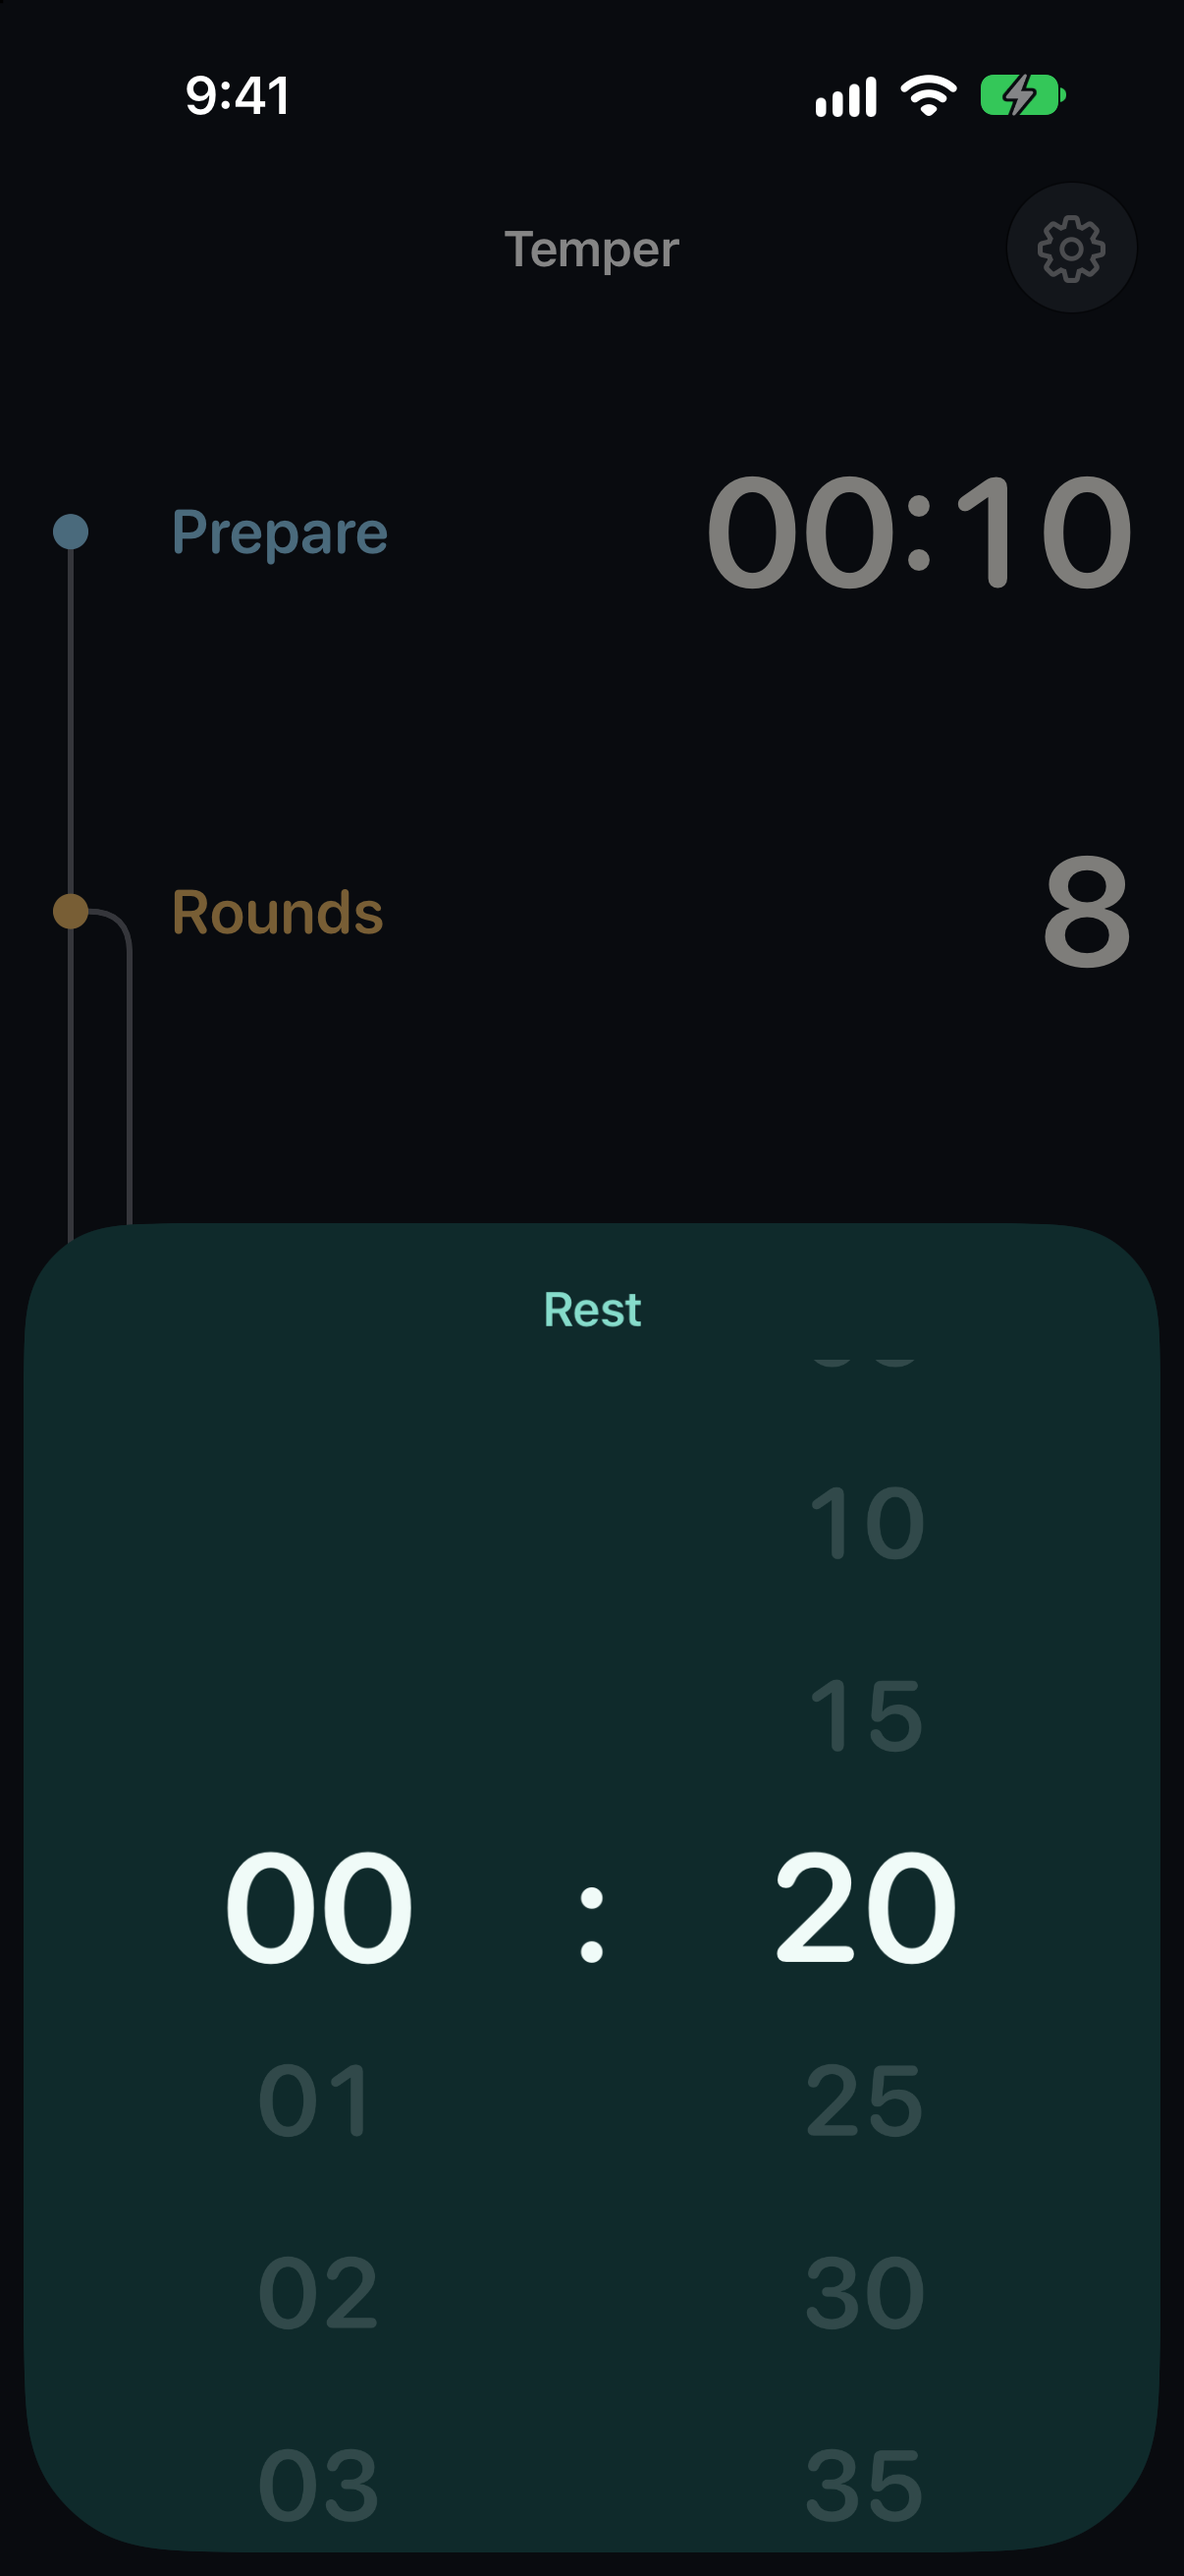
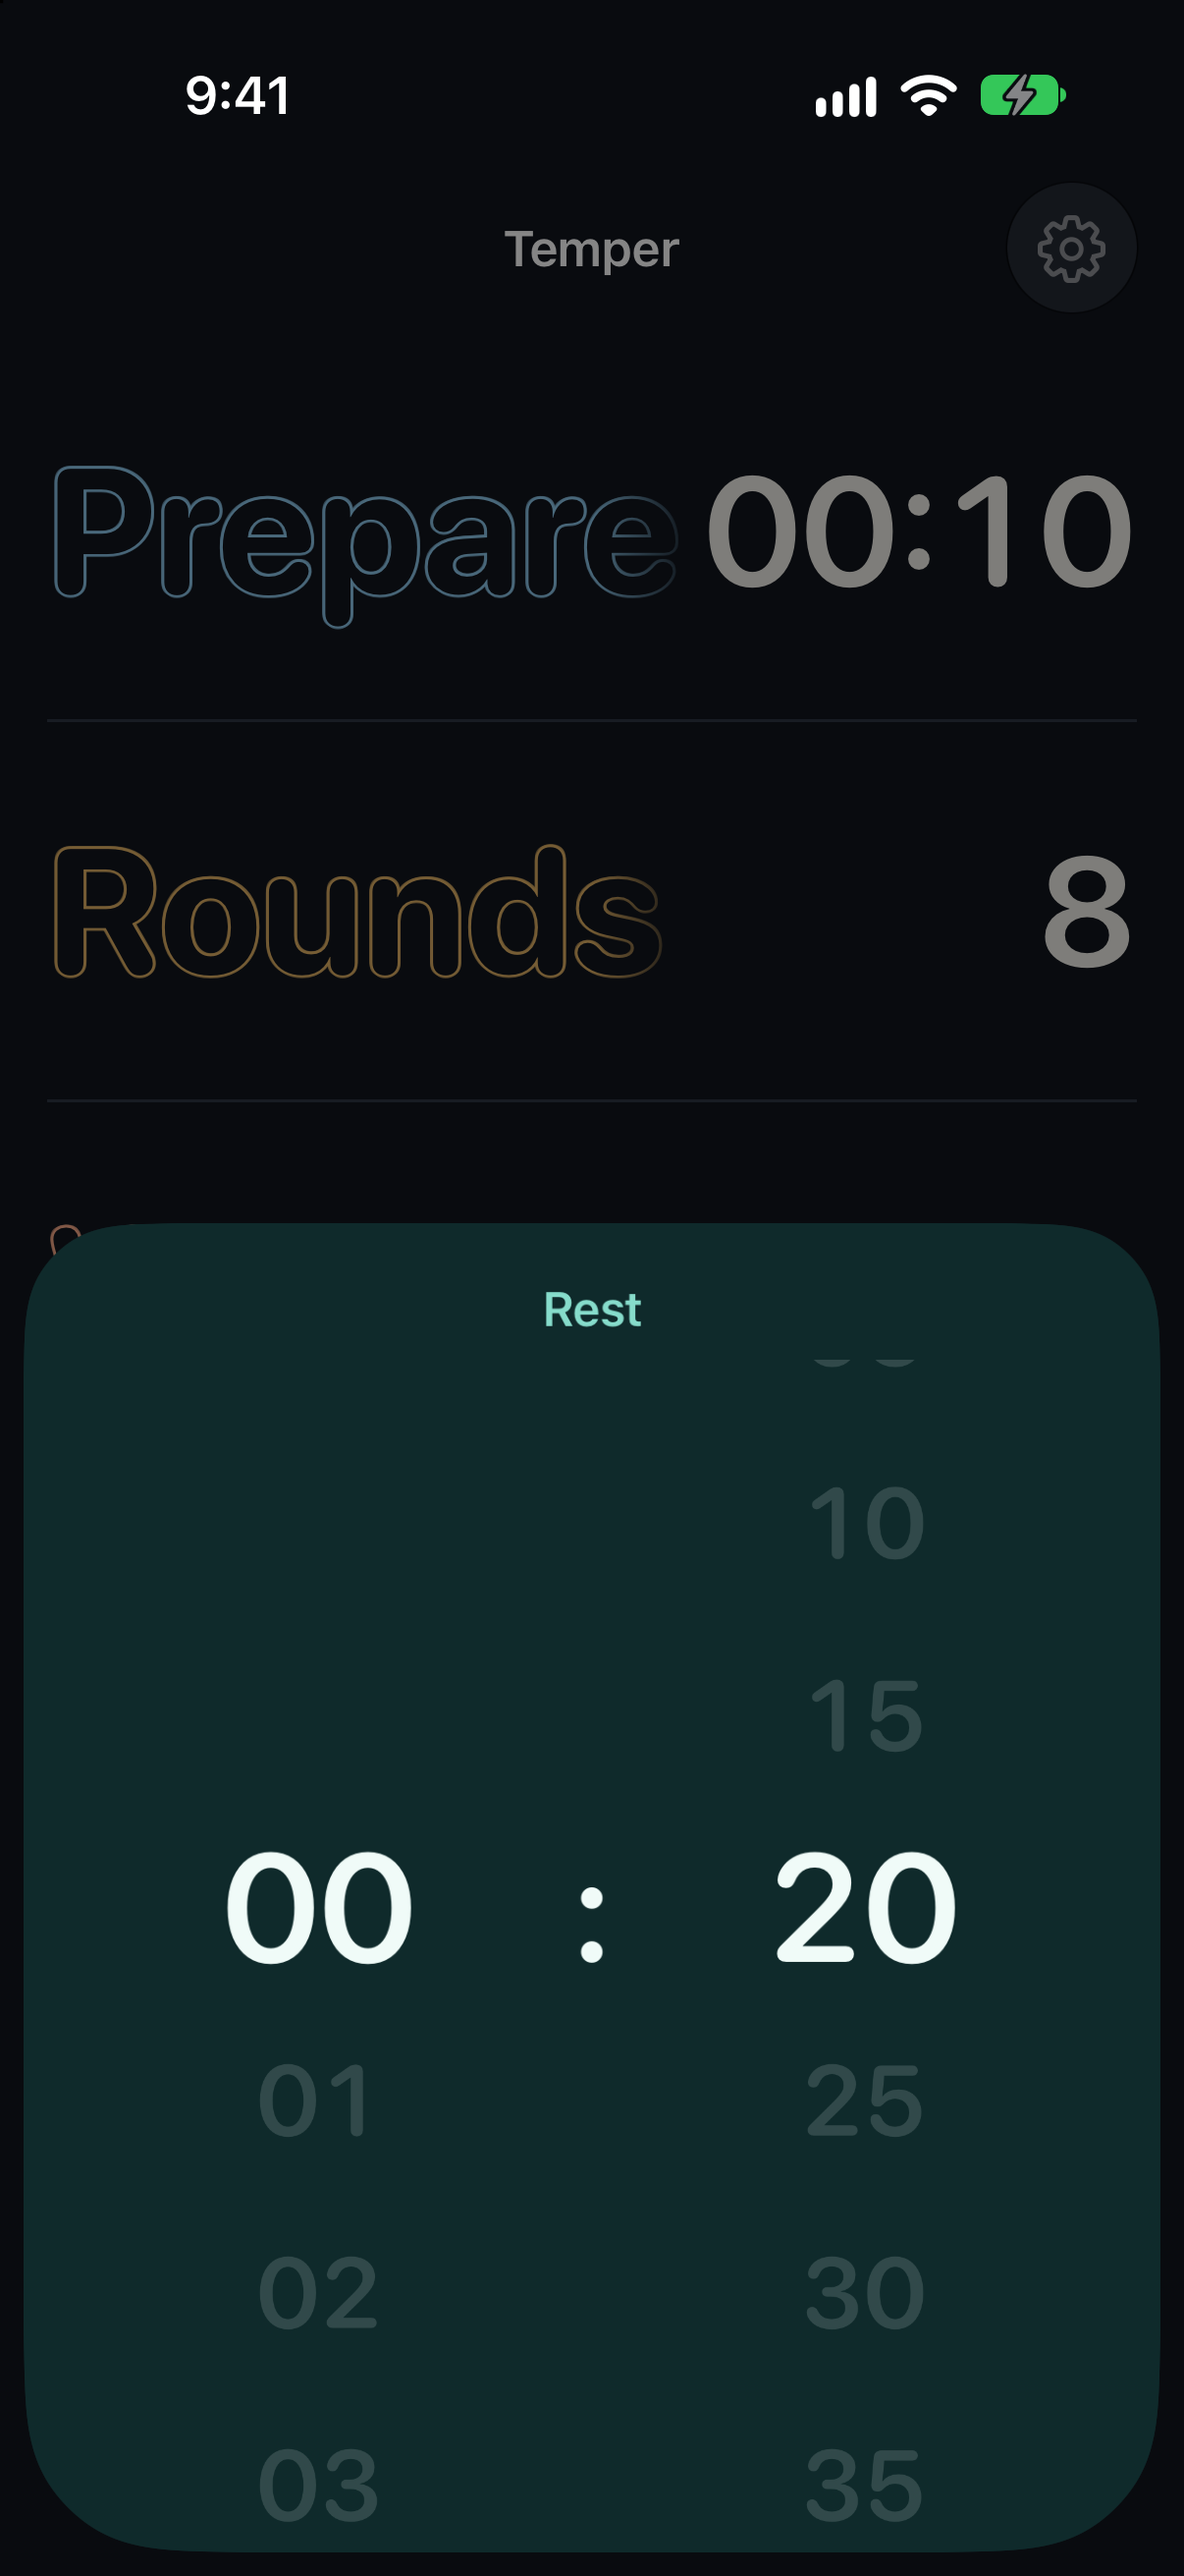
Try large background words for setup labels in Screens Probe
The owner asked for a large secondary word behind each row. Compares Stamped, Outline and Fade, each dissolving before the digits. Thread, Italic and Edge remain in history at 11379f3.

Changed region(s): [[0.0307, 0.1854, 0.5522, 0.4943]]

diff --git a/Prototypes/ScreensProbe/ScreensProbe/SetupF.swift b/Prototypes/ScreensProbe/ScreensProbe/SetupF.swift
@@ -1,17 +1,18 @@
 // PROTOTYPE, throw away. The chosen setup screen: the screen is only the preview, and tapping a
-// value opens a sheet with the custom wheel. Each value and sheet wears its Phase's colors, so
-// setup previews how the Workout will look. Rounds has no Phase, so it wears brass. This round
-// compares three treatments of the labels.
+// value opens a sheet with the custom wheel. Each row carries its label as a large secondary word
+// in its Phase's color, behind the value, and this round compares three ways to make it recede.
+// Rounds has no Phase, so it wears brass. Thread, Italic and Edge labels are in this branch's
+// history at 11379f3.
 import SwiftUI
 
 enum LabelStyle: String, CaseIterable {
-    case thread, serif, edge
+    case stamped, outline, fade
 
     var title: String {
         switch self {
-        case .thread: "Thread"
-        case .serif: "Italic"
-        case .edge: "Edge"
+        case .stamped: "Stamped"
+        case .outline: "Outline"
+        case .fade: "Fade"
         }
     }
 
@@ -25,32 +26,8 @@ struct SetupF: View {
     @Bindable var state: ProbeState
 
     private var colors: ThemeColors { state.theme.colors }
-    private var style: LabelStyle { state.labelStyle }
 
     var body: some View {
-        VStack(spacing: 0) {
-            rows
-            StartButton(state: state)
-                .padding(.top, 8)
-        }
-        .padding(.horizontal)
-        .background(colors.background.ignoresSafeArea())
-        .navigationTitle("Temper")
-        .navigationBarTitleDisplayMode(.inline)
-        .sheet(item: $state.editing) { field in
-            let sheet = sheetColors(field)
-            VStack(spacing: 8) {
-                sheetTitle(field).foregroundStyle(sheet.title).padding(.top, 20)
-                FieldEditor(state: state, field: field)
-                    .foregroundStyle(sheet.text)
-            }
-            .padding(.horizontal)
-            .presentationDetents([.medium])
-            .presentationBackground(sheet.background)
-        }
-    }
-
-    private var rows: some View {
         VStack(spacing: 0) {
             ForEach(Field.allCases) { field in
                 Button {
@@ -63,62 +40,87 @@ struct SetupF: View {
                 .buttonStyle(.plain)
                 .accessibilityLabel(
                     "\(field.title) \(field.text(state.values[keyPath: field.keyPath]))")
-                if field != .cooldown, style != .thread {
+                if field != .cooldown {
                     Rectangle().fill(colors.separator).frame(height: 1)
                 }
             }
+            StartButton(state: state)
+                .padding(.top, 8)
         }
-        .overlay(alignment: .leading) {
-            if style == .thread {
-                WorkoutThread(state: state)
-                    .frame(width: 36)
-                    .allowsHitTesting(false)
+        .padding(.horizontal)
+        .background(colors.background.ignoresSafeArea())
+        .navigationTitle("Temper")
+        .navigationBarTitleDisplayMode(.inline)
+        .sheet(item: $state.editing) { field in
+            let sheet = sheetColors(field)
+            VStack(spacing: 8) {
+                Text(field.title).font(.headline).foregroundStyle(sheet.title).padding(.top, 20)
+                FieldEditor(state: state, field: field)
+                    .foregroundStyle(sheet.text)
             }
+            .padding(.horizontal)
+            .presentationDetents([.medium])
+            .presentationBackground(sheet.background)
         }
     }
 
-    @ViewBuilder
     private func row(_ field: Field) -> some View {
-        switch style {
-        case .thread:
-            HStack {
-                Text(field.title)
-                    .font(.system(size: 21, weight: .semibold, design: .rounded))
-                    .foregroundStyle(titleColor(field))
-                Spacer(minLength: 8)
-                value(field)
-            }
-            .padding(.leading, 42)
-        case .serif:
-            VStack(spacing: 0) {
-                Text(field.title)
-                    .font(.system(size: 25, weight: .medium, design: .serif).italic())
-                    .foregroundStyle(titleColor(field))
-                value(field)
-            }
-        case .edge:
-            value(field)
-                .frame(maxWidth: .infinity)
-                .overlay(alignment: .leading) {
-                    EdgeLabel(title: field.title, color: titleColor(field))
+        ZStack {
+            word(field)
+                .frame(maxWidth: .infinity, alignment: .leading)
+                .mask {
+                    // Dissolves just before the digits begin, so a long word never runs under them.
+                    LinearGradient(
+                        stops: [
+                            .init(color: .black, location: 0),
+                            .init(color: .black, location: 0.5),
+                            .init(color: .clear, location: 0.6),
+                        ],
+                        startPoint: .leading,
+                        endPoint: .trailing
+                    )
                 }
+                .accessibilityHidden(true)
+            Text(field.text(state.values[keyPath: field.keyPath]))
+                .font(.system(size: 52, weight: .semibold, design: .rounded))
+                .monospacedDigit()
+                .foregroundStyle(colors.text)
+                .frame(maxWidth: .infinity, alignment: .trailing)
         }
-    }
-
-    private func value(_ field: Field) -> some View {
-        Text(field.text(state.values[keyPath: field.keyPath]))
-            .font(.system(size: 52, weight: .semibold, design: .rounded))
-            .monospacedDigit()
-            .foregroundStyle(colors.text)
     }
 
     @ViewBuilder
-    private func sheetTitle(_ field: Field) -> some View {
-        if style == .serif {
-            Text(field.title).font(.system(size: 25, weight: .medium, design: .serif).italic())
-        } else {
-            Text(field.title).font(.headline)
+    private func word(_ field: Field) -> some View {
+        let base = Text(field.title)
+            .font(.system(size: 60, weight: .bold, design: .rounded))
+            .lineLimit(1)
+            .fixedSize()
+        switch state.labelStyle {
+        case .stamped:
+            base
+                .foregroundStyle(stampColor(field))
+                .shadow(color: .white.opacity(0.14), radius: 0, y: 0.75)
+                .shadow(color: .black.opacity(0.7), radius: 0, y: -0.75)
+        case .outline:
+            ZStack {
+                ForEach(0..<12, id: \.self) { step in
+                    let angle = Double(step) / 12 * 2 * .pi
+                    base
+                        .foregroundStyle(titleColor(field).opacity(0.6))
+                        .offset(x: cos(angle) * 1, y: sin(angle) * 1)
+                }
+                base.foregroundStyle(colors.background)
+            }
+        case .fade:
+            base.foregroundStyle(titleColor(field).opacity(0.5))
         }
+    }
+
+    /// The dark tone a Phase already uses for its ring's track. Rounds has no Phase, so it gets the
+    /// same treatment from brass.
+    private func stampColor(_ field: Field) -> Color {
+        field.phaseKind.map { state.theme.phase($0).track }
+            ?? colors.accent.mix(with: colors.background, by: 0.72)
     }
 
     private func titleColor(_ field: Field) -> Color {
@@ -131,70 +133,5 @@ struct SetupF: View {
         }
         let phase = state.theme.phase(kind)
         return (phase.background, phase.ring, phase.text)
-    }
-}
-
-/// The Workout drawn as one line: Prepare, a loop that Work and Rest sit on, then Cooldown. An
-/// empty node means the Phase is Off.
-private struct WorkoutThread: View {
-    let state: ProbeState
-
-    var body: some View {
-        Canvas { context, size in
-            let colors = state.theme.colors
-            let count = CGFloat(Field.allCases.count)
-            func center(_ index: Int) -> CGFloat { size.height * (CGFloat(index) + 0.5) / count }
-            let left: CGFloat = 8
-            let right: CGFloat = 28
-            let bottom = center(3) + size.height / count * 0.32
-            let line = StrokeStyle(lineWidth: 2, lineCap: .round)
-
-            var thread = Path()
-            thread.move(to: CGPoint(x: left, y: center(0)))
-            thread.addLine(to: CGPoint(x: left, y: center(4)))
-            thread.move(to: CGPoint(x: left, y: center(1)))
-            thread.addLine(to: CGPoint(x: right - 14, y: center(1)))
-            thread.addQuadCurve(
-                to: CGPoint(x: right, y: center(1) + 14),
-                control: CGPoint(x: right, y: center(1)))
-            thread.addLine(to: CGPoint(x: right, y: bottom - 14))
-            thread.addQuadCurve(
-                to: CGPoint(x: right - 14, y: bottom),
-                control: CGPoint(x: right, y: bottom))
-            thread.addLine(to: CGPoint(x: left, y: bottom))
-            context.stroke(thread, with: .color(colors.secondary.opacity(0.55)), style: line)
-
-            for (index, field) in Field.allCases.enumerated() {
-                let onLoop = field == .work || field == .rest
-                let spot = CGPoint(x: onLoop ? right : left, y: center(index))
-                let color = field.phaseKind.map { state.theme.phase($0).ring } ?? colors.accent
-                let rect = CGRect(x: spot.x - 6, y: spot.y - 6, width: 12, height: 12)
-                if state.values[keyPath: field.keyPath] == 0 {
-                    context.fill(Path(ellipseIn: rect), with: .color(colors.background))
-                    context.stroke(Path(ellipseIn: rect), with: .color(color), lineWidth: 2)
-                } else {
-                    context.fill(Path(ellipseIn: rect), with: .color(color))
-                }
-            }
-        }
-        .accessibilityHidden(true)
-    }
-}
-
-/// The label turned sideways along the row's edge, like a marking on a tool, beside a short rule.
-private struct EdgeLabel: View {
-    let title: String
-    let color: Color
-
-    var body: some View {
-        HStack(spacing: 7) {
-            Capsule().fill(color).frame(width: 3, height: 74)
-            Text(title)
-                .font(.system(size: 16, weight: .semibold, design: .rounded))
-                .foregroundStyle(color)
-                .fixedSize()
-                .rotationEffect(.degrees(-90))
-                .frame(width: 20, height: 74)
-        }
     }
 }

diff --git a/Prototypes/ScreensProbe/ScreensProbe/Model.swift b/Prototypes/ScreensProbe/ScreensProbe/Model.swift
@@ -187,11 +187,11 @@ final class ProbeState {
     let noBar = UserDefaults.standard.bool(forKey: "noBar")
     var editing: Field?
     var confirmStop = false
-    var labelStyle = LabelStyle.thread
+    var labelStyle = LabelStyle.outline
 
     init() {
         let args = UserDefaults.standard
-        labelStyle = LabelStyle(rawValue: args.string(forKey: "labelStyle") ?? "") ?? .thread
+        labelStyle = LabelStyle(rawValue: args.string(forKey: "labelStyle") ?? "") ?? .outline
         if args.object(forKey: "rest") != nil { values.rest = args.integer(forKey: "rest") }
         if args.integer(forKey: "rounds") > 0 {
             values.rounds = Field.rounds.clamped(args.integer(forKey: "rounds"))

diff --git a/Prototypes/ScreensProbe/README.md b/Prototypes/ScreensProbe/README.md
@@ -4,7 +4,7 @@ Answers one question: what should the setup, running and Settings screens look l
 
 The timer is a stand-in. It has no audio, no background running and no accuracy claims, and nothing is saved.
 
-This round compares three treatments of the setup labels, with the layouts, the Ink design system and the Temper bar chosen. Earlier variants are in this branch's history: the first round at `d6cee05`, the second at `6c6edda`, the third, with the Tide and Plum themes, at `b8542a3`, the fourth, with "Round 3 of 8" as text, at `9fc9369` and the fifth, with the Chalk and Bezel styles, at `31084cb`.
+This round compares three ways to show the setup labels as large secondary words, with the layouts, the Ink design system and the Temper bar chosen. Earlier variants are in this branch's history: the first round at `d6cee05`, the second at `6c6edda`, the third, with the Tide and Plum themes, at `b8542a3`, the fourth, with "Round 3 of 8" as text, at `9fc9369` the fifth, with the Chalk and Bezel styles, at `31084cb`, and the Thread, Italic and Edge labels at `11379f3`.
 
 ## Run it
 
@@ -22,7 +22,7 @@ Colors are best judged on a real iPhone. For that, run `cp Config/Local.xcconfig
 
 The black and yellow bar is not part of any design.
 
-- **Text button:** switches between the three label styles on setup. The bar names the current one.
+- **Text button:** switches the setup labels between Stamped, Outline and Fade. The bar names the current one.
 - **Skip button:** jumps to the next Phase. Skipping is not a v1 feature.
 - **Eye:** hides the bar. A small yellow dot in the bottom corner brings it back.
 
@@ -45,9 +45,11 @@ Setup and the complete screen don't show the bar.
 
 ## Setup labels
 
-- **Thread:** the Workout drawn as one line, with a colored node for each value and Work and Rest on a loop. An empty node means the Phase is Off. Labels sit left and values right.
-- **Italic:** the labels in the system's serif italic, above centered values.
-- **Edge:** the labels turned sideways along each row's edge, beside a short colored rule.
+Each row's label is a 60 pt bold word on the left with its value on the right. A long word dissolves just before the digits begin. Rounds has no Phase, so it uses brass.
+
+- **Stamped:** the Phase's dark track color with a fine highlight and shade, like a mark pressed into steel.
+- **Outline:** hollow letters in the Phase's color at 60%.
+- **Fade:** solid letters in the Phase's color at 50%.
 
 ## Time format
 
@@ -57,7 +59,7 @@ Every time reads `00:00`, for example `01:00`.
 
 Prepare, Rest and Cooldown run from Off to 30:00 in 5-second steps, and Off skips the Phase. Work runs from 00:05 to 30:00. Rounds run from 1 to 99.
 
-Launch arguments open a state directly, for example `./run.sh -screen running -phase Rest -time 14`. Others are `-screen settings`, `-screen complete`, `-paused YES`, `-confirmStop YES`, `-edit work`, `-noBar YES`, `-rounds 99`, `-rest 0` and `-labelStyle serif`.
+Launch arguments open a state directly, for example `./run.sh -screen running -phase Rest -time 14`. Others are `-screen settings`, `-screen complete`, `-paused YES`, `-confirmStop YES`, `-edit work`, `-noBar YES`, `-rounds 99`, `-rest 0` and `-labelStyle outline`.
 
 ## Screenshots
 
